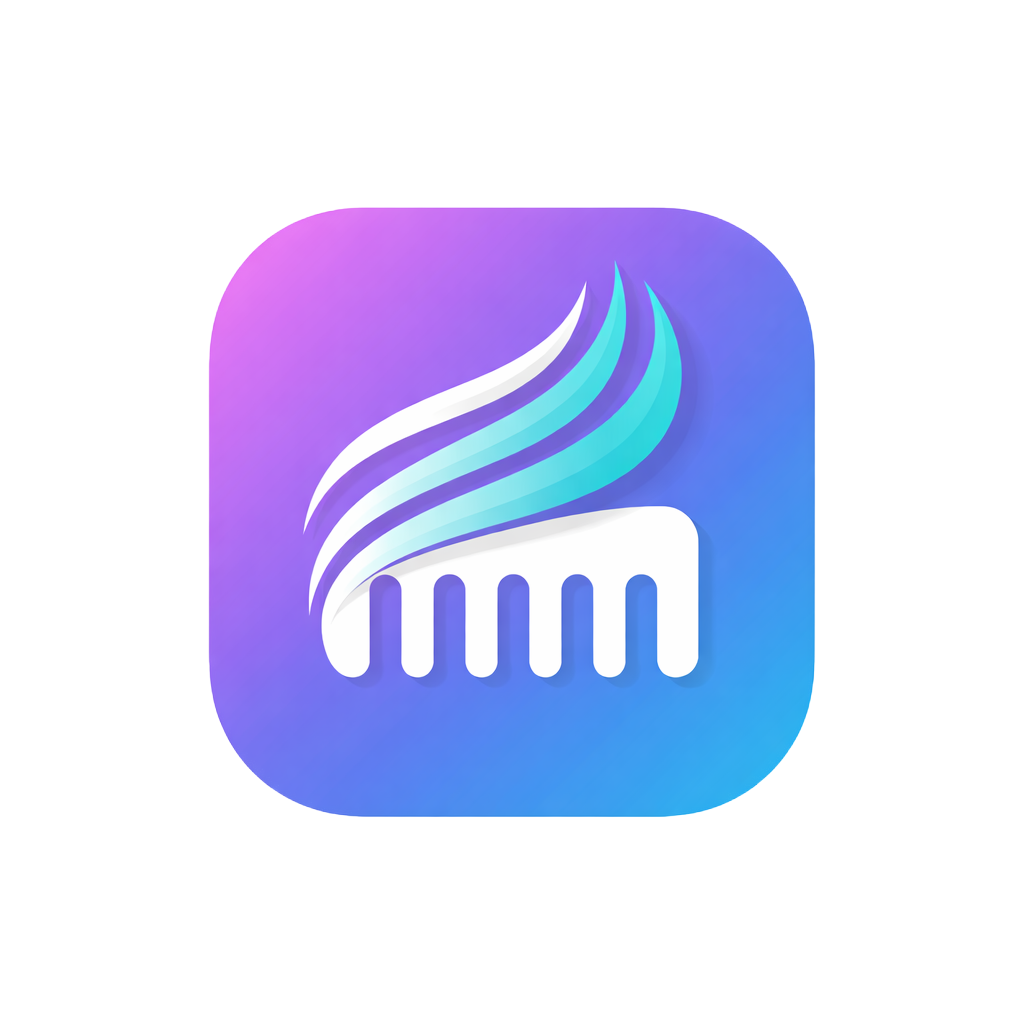
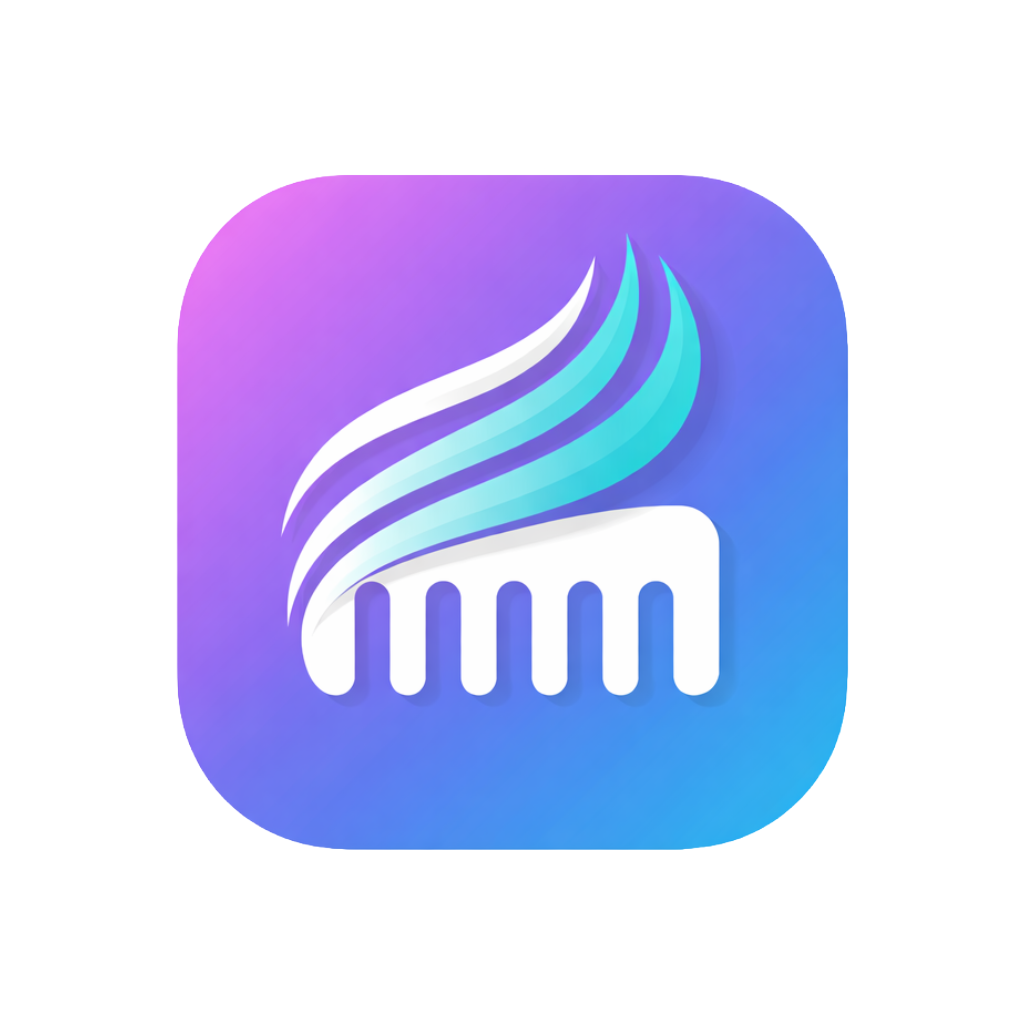
melhorias nas imagens.

Changed region(s): [[0.1562, 0.1562, 0.8438, 0.8438], [0.5625, 0.4688, 0.5938, 0.5]]

diff --git a/voro-salon-crm-front/components/ui/custom/loading/loading.tsx b/voro-salon-crm-front/components/ui/custom/loading/loading.tsx
@@ -45,7 +45,7 @@ export function Loading({ isLoading, onLoadingComplete }: LoadingProps) {
               transition={{ duration: 0.5 }}
             >
               <motion.img
-                src="/icon.png"
+                src="/icon-clean.png"
                 alt="Logo"
                 className="w-24 h-24 mx-auto object-contain"
                 animate={{
